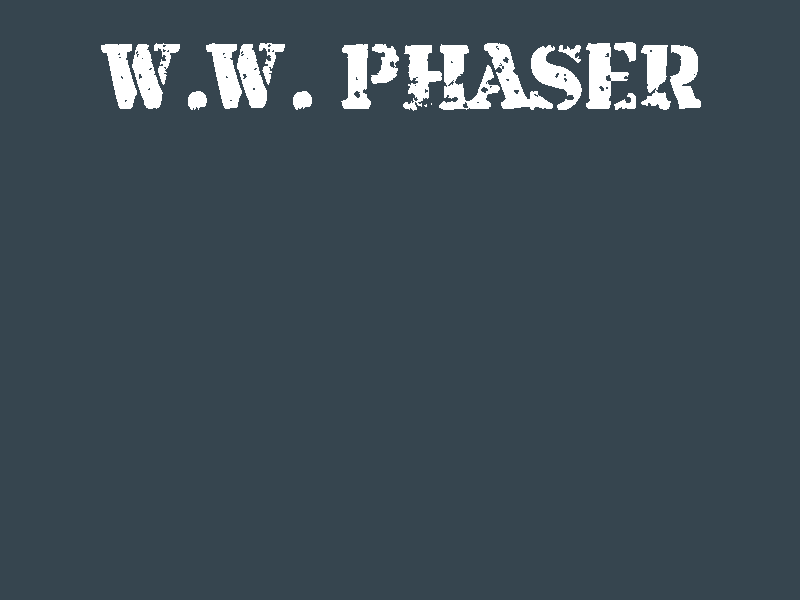
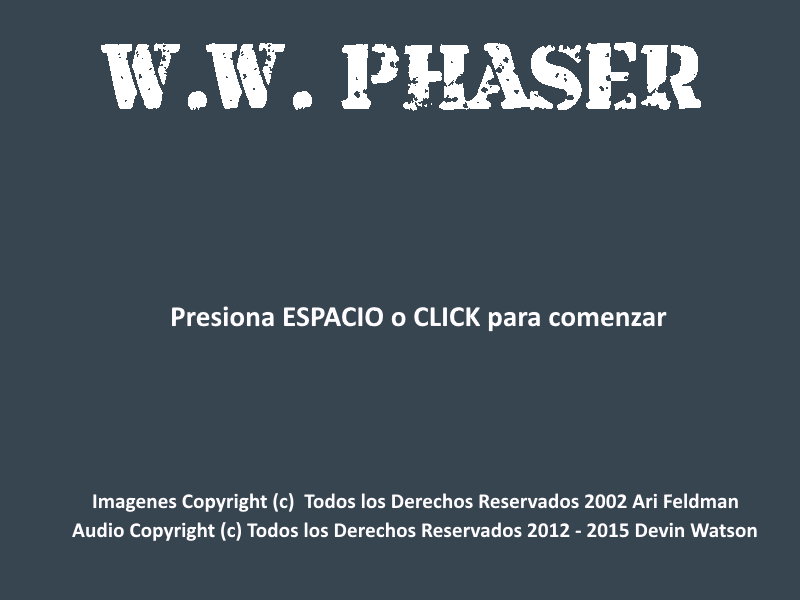
Explosions and instructions added

Changed region(s): [[0.0938, 0.81, 0.9688, 0.9], [0.1875, 0.51, 0.8438, 0.57]]

diff --git a/js/Game.js b/js/Game.js
@@ -1,25 +1,5 @@
 BasicGame.Game = function (game) {
-  //  When a State is added to Phaser it automatically has the following properties set on it, even if they already exist:
 
-  this.game;      //  a reference to the currently running game (Phaser.Game)
-  this.add;       //  used to add sprites, text, groups, etc (Phaser.GameObjectFactory)
-  this.camera;    //  a reference to the game camera (Phaser.Camera)
-  this.cache;     //  the game cache (Phaser.Cache)
-  this.input;     //  the global input manager. You can access this.input.keyboard, this.input.mouse, as well from it. (Phaser.Input)
-  this.load;      //  for preloading assets (Phaser.Loader)
-  this.math;      //  lots of useful common math operations (Phaser.Math)
-  this.sound;     //  the sound manager - add a sound, play one, set-up markers, etc (Phaser.SoundManager)
-  this.stage;     //  the game stage (Phaser.Stage)
-  this.time;      //  the clock (Phaser.Time)
-  this.tweens;    //  the tween manager (Phaser.TweenManager)
-  this.state;     //  the state manager (Phaser.StateManager)
-  this.world;     //  the game world (Phaser.World)
-  this.particles; //  the particle manager (Phaser.Particles)
-  this.physics;   //  the physics manager (Phaser.Physics)
-  this.rnd;       //  the repeatable random number generator (Phaser.RandomDataGenerator)
-
-  //  You can use any of these from any function within this State.
-  //  But do consider them as being 'reserved words', i.e. don't create a property for your own game called "world" or you'll over-write the world reference.
 };
 
 BasicGame.Game.prototype = {
@@ -28,6 +8,8 @@ BasicGame.Game.prototype = {
     this.setupPlayer();
     this.setupBullets();
     this.setupEnemies();
+    this.setupExplosions();
+    this.setupText();
 
     this.cursors = this.input.keyboard.createCursorKeys();
   },
@@ -36,6 +18,7 @@ BasicGame.Game.prototype = {
     this.processPlayerInput();
     this.spawnEnemies();
     this.checkCollisions();
+    this.processDelayedEffects();
   },
 
   setupBackground: function() {
@@ -93,6 +76,41 @@ BasicGame.Game.prototype = {
     this.enemyCount = 0;
   },
 
+  setupExplosions: function() {
+    this.explosions = this.add.group();
+    this.explosions.enableBody = true;
+    this.explosions.physicsBodyType = Phaser.Physics.ARCADE;
+    this.explosions.createMultiple(10, 'explosion');
+    this.explosions.setAll('anchor.x', 0.5);
+    this.explosions.setAll('anchor.y', 0.5);
+    this.explosions.setAll('outOfBoundsKill', true);
+    this.explosions.setAll('checkWorldBounds', true);
+
+    this.explosions.forEach(function(explosion) {
+      explosion.animations.add('boom');
+    });
+  },
+
+  setupText: function() {
+    this.instructions = this.add.text(
+		    this.game.width / 2, this.game.height - 100,
+        'Utiliza las flechas para moverte, presiona ESPACIO para disparar\n' +
+        'Hacer click con el mouse realiza ambas.',
+        {font: '20px monospace', fill: '#fff', align: 'center'}
+      );
+
+      this.instructions.anchor.setTo(0.5, 0.5);
+      this.instExpire = this.time.now + Phaser.Timer.SECOND * 5;
+  },
+
+  processDelayedEffects: function() {
+    if(this.instructions.exists && this.time.now > this.instExpire) {
+      //this.game.add.tween(this.instructions).to({y: this.instructions.y}, 250, Phaser.Easing.Linear.None, true);
+      this.game.add.tween(this.instructions).to({alpha: 0}, 250, Phaser.Easing.Linear.None, true);
+      //this.instructions.destroy();
+    }
+  },
+
   processPlayerInput: function() {
     this.player.body.velocity.x = 0;
     this.player.body.velocity.y = 0;
@@ -146,7 +164,19 @@ BasicGame.Game.prototype = {
     enemy.damage(damage);
     if(enemy.alive) {
       enemy.play('hit');
+    } else {
+      this.explode(enemy);
     }
+  },
+
+  explode: function(obj) {
+    if(this.explosions.countDead() === 0) return;
+
+    var explosion = this.explosions.getFirstExists(false);
+    explosion.reset(obj.x, obj.y);
+    explosion.play('boom', 15, false, true);
+    explosion.body.velocity.x = obj.body.velocity.x;
+    explosion.body.velocity.y = obj.body.velocity.y;
   },
 
   fire: function() {
@@ -164,12 +194,12 @@ BasicGame.Game.prototype = {
 
   render: function() {
     // Debug
-    this.game.debug.body(this.player);
-    this.enemyGroup.forEachAlive(this.renderGroup, this);
+    //this.game.debug.body(this.player);
+    //this.enemyGroup.forEachAlive(this.renderGroup, this);
   },
 
-  renderGroup: function(member){
-    this.game.debug.body(member);
+  renderGroup: function(obj){
+    this.game.debug.body(obj);
   },
 
   quitGame: function (pointer) {

diff --git a/js/MainMenu.js b/js/MainMenu.js
@@ -5,20 +5,6 @@ BasicGame.MainMenu = function (game) {
 BasicGame.MainMenu.prototype = {
 	create: function () {
 		this.add.sprite(0, 0, 'titlepage');
-
-		var styleInst = {font: '20px monospace', fill: '#fff'};
-		var styleCopy = {font: '15px monospace', fill: '#fff', align: 'center'};
-
-		this.add.text(
-			this.game.width / 2, this.game.height / 2 + 80, 'Press SPACE or CLICK the screen to begin.', styleInst
-		).anchor.setTo(0.5, 0.5);
-
-		this.add.text(
-			this.game.width / 2, this.game.height - 90, 'Images assets Copyright (c) 2002 Ari Feldman', styleCopy
-		).anchor.setTo(0.5, 0.5);
-		this.add.text(
-			this.game.width / 2, this.game.height - 75, 'Sound assets Copyright (c) 2012 - 2015 Devin Watson aka dklon', styleCopy
-		).anchor.setTo(0.5, 0.5);
 	},
 
 	update: function () {

diff --git a/js/Preloader.js b/js/Preloader.js
@@ -9,6 +9,7 @@ BasicGame.Preloader.prototype = {
 	preload: function () {
 		this.stage.backgroundColor = '#2d2d2d';
 		this.preloadBar = this.add.sprite(300, 400, 'assets/images/preloader-bar.png');
+		this.add.text(this.game.width / 2, 350, 'Cargando...', {font: '20px monospace', fill: '#fff'}).anchor.setTo(0.5, 0.5);
 
 		this.load.setPreloadSprite(this.preloadBar);
 
@@ -19,6 +20,7 @@ BasicGame.Preloader.prototype = {
 
 		this.load.spritesheet('player', 'assets/images/player.png', 64, 64);
 		this.load.spritesheet('greenEnemy', 'assets/images/green-enemy.png', 32, 32);
+		this.load.spritesheet('explosion', 'assets/images/explosion.png', 32, 32);
 		//	+ lots of other required assets here
 	},
 

diff --git a/js/Boot.js b/js/Boot.js
@@ -27,7 +27,7 @@ BasicGame.Boot.prototype = {
 
   preload: function () {
     //  Here we load the assets required for our preloader (in this case a background and a loading bar)
-    this.load.image('preloaderBar', 'assets/preloader-bar.png');
+    this.load.image('preloaderBar', 'assets/images/preloader-bar.png');
   },
 
   create: function () {
